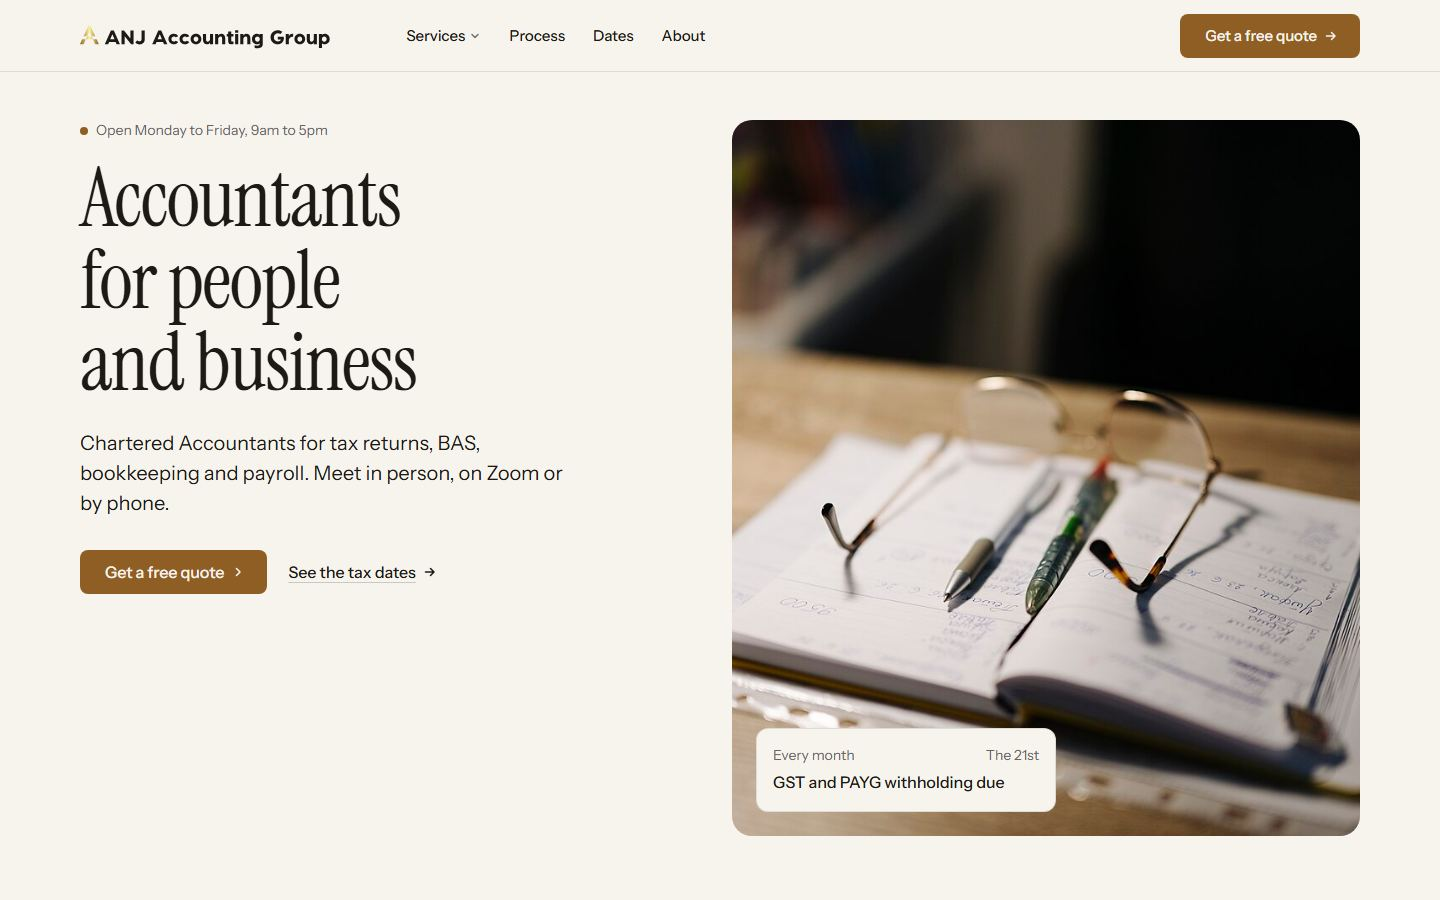
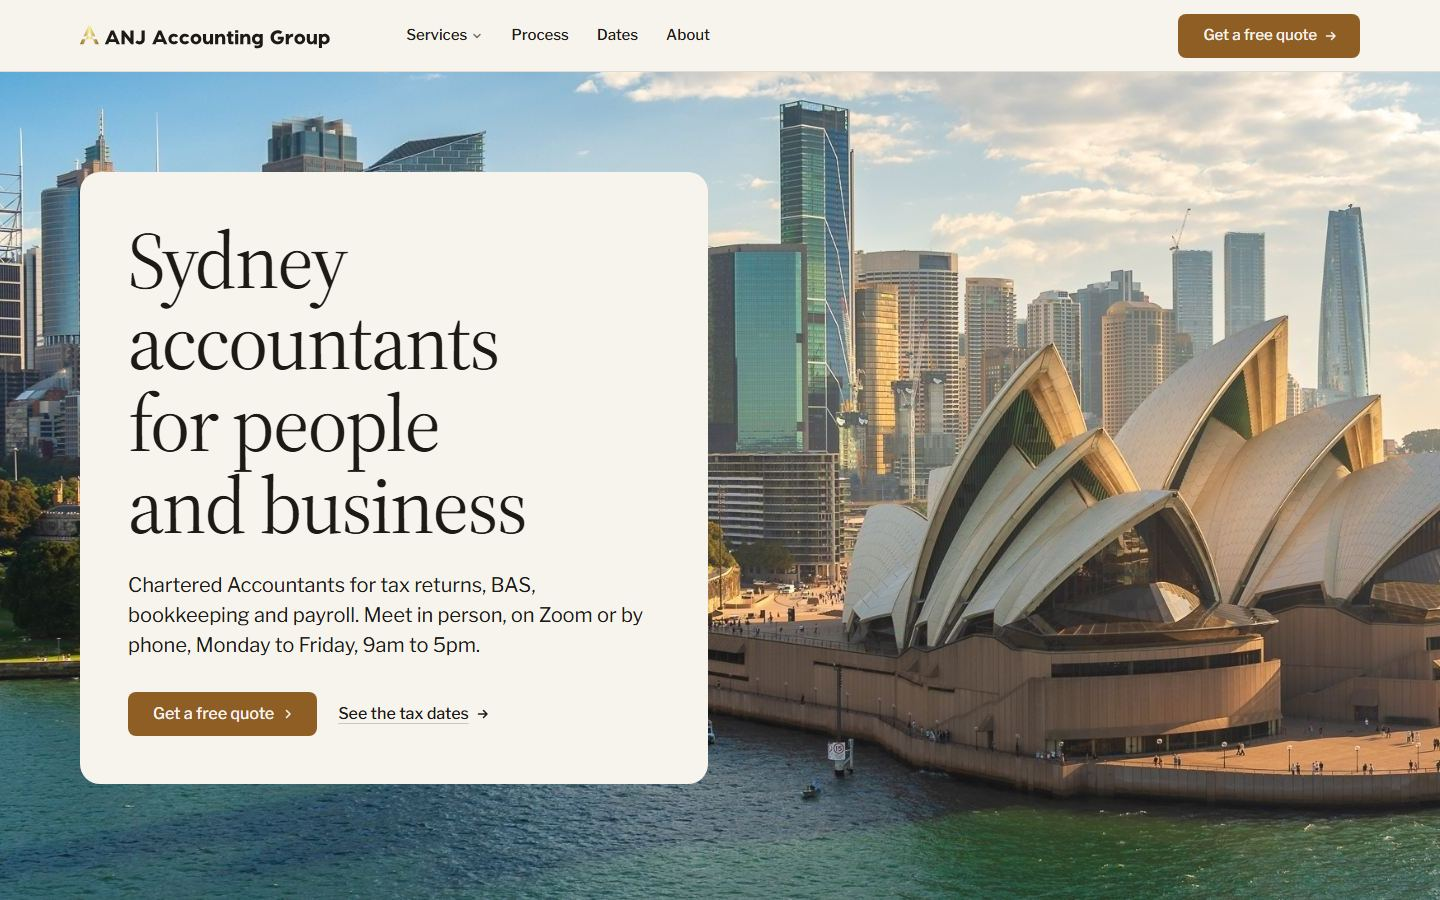
Replace homepage hero with a full-bleed Sydney harbour photo
Swap the split hero (desk photo and due-date card) for a full-width
photo of the Sydney CBD and Opera House, with the headline, lead and
buttons in a cream box on the left. The headline now names Sydney and
the lead carries the office hours. Adds resized copies of the photo
(500/960/1280/1800) and a shorter phone crop; removes the old desk photo.

diff --git a/credits.html b/credits.html
@@ -17,7 +17,7 @@
 <meta name="page-type" content="service">
 <link rel="preconnect" href="https://fonts.googleapis.com">
 <link rel="preconnect" href="https://fonts.gstatic.com" crossorigin>
-<link href="https://fonts.googleapis.com/css2?family=Host+Grotesk:wght@400..700&display=swap" rel="stylesheet">
+<link href="https://fonts.googleapis.com/css2?family=Source+Serif+4:opsz,wght@8..60,400..700&family=Libre+Franklin:wght@400..600&display=swap" rel="stylesheet">
 <link rel="stylesheet" href="assets/system.css">
 <link rel="stylesheet" href="assets/ui/cards.css">
 <link rel="stylesheet" href="assets/motion/motion.css">
@@ -28,11 +28,11 @@
   --p-accent: #8f5e25; --p-accent-ink: #f7f4ee; --p-action: #8f5e25; --p-action-ink: #f7f4ee;
   --p-inv-bg: #1d1a16; --p-inv-surface: #292622; --p-inv-ink: #f7f4ee; --p-inv-muted: #9c9993;
   --p-inv-accent: #8f5e25; --p-inv-accent-ink: #f7f4ee; --p-inv-action: #8f5e25; --p-inv-action-ink: #f7f4ee;
-  --font-display: "Host Grotesk", system-ui, sans-serif;
-  --font-text: "Host Grotesk", system-ui, sans-serif;
+  --font-display: "Source Serif 4", Georgia, serif;
+  --font-text: "Libre Franklin", system-ui, sans-serif;
   --display-weight: 400;
-  --display-tracking: -0.035em;
-  --display-tracking-xl: -0.04em;
+  --display-tracking: -0.02em;
+  --display-tracking-xl: -0.026em;
 }
 </style>
 <script>document.documentElement.classList.add('m-enter');setTimeout(()=>document.documentElement.classList.add('m-enter-done'),700)</script>
@@ -56,21 +56,54 @@
   .creds .cred__logo img { width: 100%; height: 100%; object-fit: contain; }
   .creds .cred__mark { flex: none; width: 112px; height: 76px; border-radius: var(--r-md); background: var(--surface); display: grid; place-items: center; }
   .creds .cred__mark img { width: 56px; height: auto; }
-  .contact-list { display: grid; gap: var(--s-4); margin-top: var(--s-7); }
-  .contact-list a { font-size: var(--t-lead); }
+  .side__photo { position: relative; overflow: hidden; border-radius: var(--r-lg); aspect-ratio: 3 / 2; margin-top: var(--s-7); background: var(--surface); }
+  .side__photo img { position: absolute; inset: 0; width: 100%; height: 100%; object-fit: cover; }
   .quote__form { background: var(--g-alt, var(--surface)); border-radius: var(--r-lg); padding: var(--s-7); }
+  .footer__col a[href^="mailto:"], .footer__col a[href^="tel:"] { overflow-wrap: anywhere; }
+  .group-label { margin: var(--s-6) 0 var(--s-3); font-weight: 500; }
+  .svc-cols .group-label { margin-top: 0; }
+  .review { display: flex; flex-direction: column; gap: var(--s-4); }
+  .review blockquote { margin: 0; font: 400 var(--t-body)/1.65 var(--font-text); color: var(--ink); flex: 1 1 auto; }
+    .stars { display: flex; gap: 2px; color: var(--accent); }
+  .stars svg { width: 18px; height: 18px; }
+  .rating-line { display: inline-flex; align-items: center; gap: var(--s-3); }
+  .rating-line img { width: 24px; height: 24px; }
   @media (max-width: 1023px) {
     .svc__photo { height: auto; aspect-ratio: 4 / 3; margin-top: var(--s-7); }
-    .develop { height: auto; aspect-ratio: 4 / 3; margin-top: var(--s-7); }
-    .quote__form { margin-top: var(--s-7); }
+    .develop { height: auto; aspect-ratio: 16 / 9; margin-top: var(--s-7); }
+    .quote__form { margin-top: var(--s-7); background: none; padding: 0; border-radius: 0; }
   }
-  @media (max-width: 639px) { .quote__form { padding: var(--s-5); } .creds .cred__logo, .creds .cred__mark { width: 88px; height: 60px; } }
+  /* the tablet stacks these splits past one screen: two screens there */
+  @media (min-width: 640px) and (max-width: 1023px) {
+    #services, #dates, #quote { --h: 2; }
+    /* two screens as two groups, as .g2 does: the words and photograph on the first, the list or form on the second */
+    #dates > .wrap, #quote > .wrap { display: grid; grid-template-columns: minmax(0, 1fr); grid-template-rows: minmax(0, 1fr) minmax(0, 1fr); row-gap: calc(var(--padt) + var(--padb) + var(--bar)); }
+    #dates > .wrap > *, #quote > .wrap > * { grid-column: 1; min-height: 0; align-self: start; }
+    .side__photo { aspect-ratio: 4 / 3; }
+    #quote .quote__form { margin-top: 0; }
+    #how:not(.is-live) .mo-pc__visual > img { max-height: 20svh; }
+    /* the three service lists and the three reviews stay side by side, so each section stays one screen */
+    #business .svc-cols { grid-template-columns: repeat(2, minmax(0, 1fr)); }
+    #business .rows > li { padding-block: var(--s-6); }
+    #reviews .rv-row { grid-template-columns: repeat(3, minmax(0, 1fr)); }
+    #business .svc-cols > *, #reviews .rv-row > * { grid-column: auto; }
+    #reviews .review blockquote { font-size: var(--t-small); }
+  }
+  @media (max-width: 639px) {
+    /* the Sydney skyline sits low in its frame: a shorter phone crop keeps both hero buttons on the first screen */
+    .hero--photo { --photo: 30svh; }
+    .nav__logo img { height: 19px; }
+    .creds .cred__logo, .creds .cred__mark { width: 88px; height: 60px; }
+    #how:not(.is-live) { height: calc(2 * 100lvh); }
+  }
 </style>
 </head>
 <body>
 <!-- type: service (an accounting firm: people are hired)
-     deal: hero split, nav nav-mega, close close-type, footer footer-columns, rhythm space, buttons arrow,
-           mark: the client's own logo (in place of the dealt arc), palette: the client's logo gold through start.mjs brand, type host
+     deal: hero photo (was split; a full-bleed Sydney photograph on the client's request), nav nav-mega, close close-type, footer footer-columns, rhythm space, buttons arrow,
+           mark: the client's own logo (in place of the dealt arc), palette: the client's logo gold through start.mjs brand,
+           type source-serif (the client's pick of the three dealt pairings; all three fail the hero-lines stress at 1440, waived) -->
+<!--
      moments: pinned-chapters (#how), picture-develops (#about photograph) -->
 <header class="nav">
   <div class="wrap nav__bar">
@@ -89,15 +122,15 @@
             </div>
             <div class="menu-col span-3">
               <p class="t-label">Management</p>
-              <a href="#services">Bookkeeping<span>Day-to-day transactions</span></a>
-              <a href="#services">Payroll<span>Pay runs by our staff</span></a>
-              <a href="#services">Financial reports<span>Year-end financials</span></a>
+              <a href="#business">Bookkeeping<span>Day-to-day transactions</span></a>
+              <a href="#business">Payroll<span>Pay runs by our staff</span></a>
+              <a href="#business">Financial reporting<span>Statements prepared for you</span></a>
             </div>
             <div class="menu-col span-3">
               <p class="t-label">Advice and setup</p>
-              <a href="#services">Tax planning<span>Before the year ends</span></a>
-              <a href="#services">Business setup<span>Company, trust or sole trader</span></a>
-              <a href="#services">Cloud accounting<span>Which software suits you</span></a>
+              <a href="#business">Tax planning<span>For any business situation</span></a>
+              <a href="#business">Business restructuring<span>Change how you trade</span></a>
+              <a href="#business">Cloud accounting<span>Which software suits you</span></a>
             </div>
             <a class="menu-card span-3" href="#dates">
               <div class="panel"><img class="frame__img" src="assets/img/photo-f61684735-500.jpg" alt="A desk with a calculator, an open notebook and a laptop in window light" width="500" height="376"></div>
@@ -123,12 +156,13 @@
   <section class="credits-list" id="credits" aria-labelledby="credits-h">
     <h1 id="credits-h">Photograph credits</h1>
     <ul>
-      <li><a href="https://commons.wikimedia.org/wiki/File:Desk_with_notebook_pens_and_glasses.jpg">Shixart1985</a>, <a href="https://creativecommons.org/licenses/by/2.0">CC BY 2.0</a></li>
       <li><a href="https://commons.wikimedia.org/wiki/File:Desktop_with_laptop_and_calculator_(Unsplash).jpg">Anonymous Unknown author</a>, <a href="http://creativecommons.org/publicdomain/zero/1.0/deed.en">CC0</a></li>
       <li><a href="https://commons.wikimedia.org/wiki/File:Person_writing_in_a_notebook_while_sitting_at_a_desk.jpg">Shixart1985</a>, <a href="https://creativecommons.org/licenses/by/2.0">CC BY 2.0</a></li>
       <li><a href="https://commons.wikimedia.org/wiki/File:Legal_Contract_%26_Signature_-_Warm_Tones.jpg">Blogtrepreneur</a>, <a href="https://creativecommons.org/licenses/by/2.0">CC BY 2.0</a></li>
       <li><a href="https://commons.wikimedia.org/wiki/File:Tabel_day_1_(Unsplash).jpg">Jan Kahánek</a>, <a href="https://creativecommons.org/publicdomain/zero/1.0/">CC0</a></li>
       <li><a href="https://commons.wikimedia.org/wiki/File:Close-up_of_stacked_books._(51539890528).jpg">Nenad Stojkovic</a>, <a href="https://creativecommons.org/licenses/by/2.0/">CC BY 2.0</a></li>
+      <li><a href="https://commons.wikimedia.org/wiki/File:Working_on_a_planning_session_with_stationery_items,_notebook,_and_colorful_pencils_on_a_wooden_desk.jpg">Shixart1985</a>, <a href="https://creativecommons.org/licenses/by/2.0">CC BY 2.0</a></li>
+      <li><a href="https://commons.wikimedia.org/wiki/File:Laptop_and_coffee_on_a_desk.jpg">Lauren Mancke</a>, <a href="http://creativecommons.org/publicdomain/zero/1.0/deed.en">CC0</a></li>
     </ul>
   </section>
 </main>
@@ -148,10 +182,10 @@
           <a class="nav__logo" href="#top"><img src="assets/brand/anj-logo-horizontal.svg" alt="ANJ Accounting Group" width="254" height="26"></a>
           <p class="footer__lede">Chartered accountants and a registered tax agent firm.</p>
         </div>
-        <div class="span-2 footer__col"><h3>Services</h3><ul><li><a href="#services">Tax returns</a></li><li><a href="#services">Bookkeeping</a></li><li><a href="#services">Business setup</a></li></ul></div>
-        <div class="span-2 footer__col"><h3>Process</h3><ul><li><a href="#how">How a quote works</a></li><li><a href="#quote">Quote form</a></li></ul></div>
-        <div class="span-2 footer__col"><h3>Dates</h3><ul><li><a href="#dates">Tax dates</a></li></ul></div>
-        <div class="span-2 footer__col"><h3>About</h3><ul><li><a href="#about">The firm</a></li><li><a href="#faq">Questions</a></li><li><a href="#contact">Contact</a></li></ul></div>
+        <div class="span-2 footer__col"><h3>Services</h3><ul><li><a href="#services">Tax and compliance</a></li><li><a href="#business">Bookkeeping</a></li><li><a href="#business">Advisory</a></li></ul></div>
+        <div class="span-2 footer__col"><h3>Process</h3><ul><li><a href="#how">How a quote works</a></li><li><a href="#dates">Tax dates</a></li></ul></div>
+        <div class="span-2 footer__col"><h3>About</h3><ul><li><a href="#about">The firm</a></li><li><a href="#reviews">Reviews</a></li><li><a href="#faq">Questions</a></li></ul></div>
+        <div class="span-2 footer__col"><h3>Contact</h3><ul><li><a href="tel:+61410513374">0410 513 374</a></li><li><a href="mailto:accounts@anjaccountinggroup.com.au">Email us</a></li></ul></div>
       </div>
       <div class="footer__legal">
         <span>&copy; 2026 ANJ Accounting Group</span>

diff --git a/index.html b/index.html
@@ -90,6 +90,8 @@
     #reviews .review blockquote { font-size: var(--t-small); }
   }
   @media (max-width: 639px) {
+    /* the Sydney skyline sits low in its frame: a shorter phone crop keeps both hero buttons on the first screen */
+    .hero--photo { --photo: 30svh; }
     .nav__logo img { height: 19px; }
     .creds .cred__logo, .creds .cred__mark { width: 88px; height: 60px; }
     #how:not(.is-live) { height: calc(2 * 100lvh); }
@@ -98,7 +100,7 @@
 </head>
 <body>
 <!-- type: service (an accounting firm: people are hired)
-     deal: hero split, nav nav-mega, close close-type, footer footer-columns, rhythm space, buttons arrow,
+     deal: hero photo (was split; a full-bleed Sydney photograph on the client's request), nav nav-mega, close close-type, footer footer-columns, rhythm space, buttons arrow,
            mark: the client's own logo (in place of the dealt arc), palette: the client's logo gold through start.mjs brand,
            type source-serif (the client's pick of the three dealt pairings; all three fail the hero-lines stress at 1440, waived) -->
 <!--
@@ -150,20 +152,13 @@
 </header>
 
 <main id="top">
-  <section class="hero hero--split" data-enter aria-labelledby="hero-h">
-    <div class="wrap"><div class="hero-text grid hero__grid">
-      <div class="hero__text span-5">
-        <p class="hero__kicker"><span class="dot" aria-hidden="true"></span>Open Monday to Friday, 9am to 5pm</p>
-        <h1 id="hero-h">Accountants for people and business</h1>
-        <p class="hero__lead">Chartered Accountants for tax returns, BAS, bookkeeping and payroll. Meet in person, on Zoom or by phone.</p>
+  <section class="hero hero--photo" data-enter data-calm="left" aria-labelledby="hero-h">
+    <img class="hero__bg" src="assets/img/hero-sydney.jpg" srcset="assets/img/hero-sydney-500.jpg 500w, assets/img/hero-sydney-960.jpg 960w, assets/img/hero-sydney-1280.jpg 1280w, assets/img/hero-sydney.jpg 1800w" sizes="100vw" width="1800" height="900" alt="Sydney's city towers rising behind the Opera House and Circular Quay on a clear afternoon" style="--ly-pos: 60% 50%; --ly-pos-phone: 62% 50%" fetchpriority="high" decoding="async" data-source="client" data-subject="city">
+    <div class="wrap"><div class="hero-text">
+      <div class="hero__text">
+        <h1 id="hero-h">Sydney accountants for people and business</h1>
+        <p class="hero__lead">Chartered Accountants for tax returns, BAS, bookkeeping and payroll. Meet in person, on Zoom or by phone, Monday to Friday, 9am to 5pm.</p>
         <div class="btn-row"><a class="btn btn--primary" href="#quote">Get a free quote<svg class="m-arrow" viewBox="0 0 12 12" aria-hidden="true"><path class="m-arrow__stem" d="M1 6h8"/><path class="m-arrow__head" d="M4.5 2.5 8 6l-3.5 3.5"/></svg></a><a class="btn btn--secondary" href="#dates">See the tax dates</a></div>
-      </div>
-      <div class="hero__media span-6 start-7">
-        <img src="assets/img/photo-f194674124.jpg" srcset="assets/img/photo-f194674124-500.jpg 500w, assets/img/photo-f194674124-960.jpg 960w, assets/img/photo-f194674124-1280.jpg 1280w, assets/img/photo-f194674124.jpg 1920w" sizes="(max-width: 1023px) 120vw, 1100px" width="1920" height="1280" alt="Reading glasses and two pens on an open ledger of handwritten figures" style="--ly-pos: 58% 60%" fetchpriority="high" decoding="async" data-source="stand-in" data-subject="desk">
-        <div class="ly-float">
-          <div class="ly-float__row"><span>Every month</span><span>The 21st</span></div>
-          <div class="ly-float__title">GST and PAYG withholding due</div>
-        </div>
       </div>
     </div></div>
   </section>
